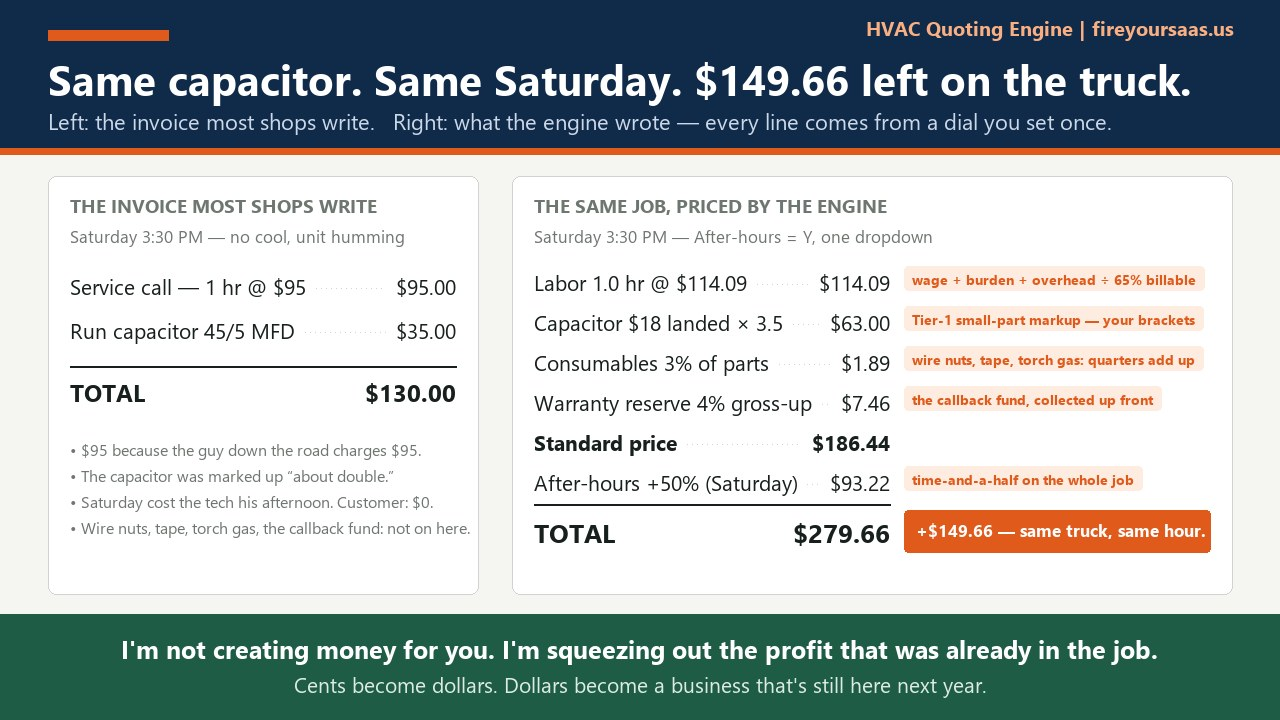
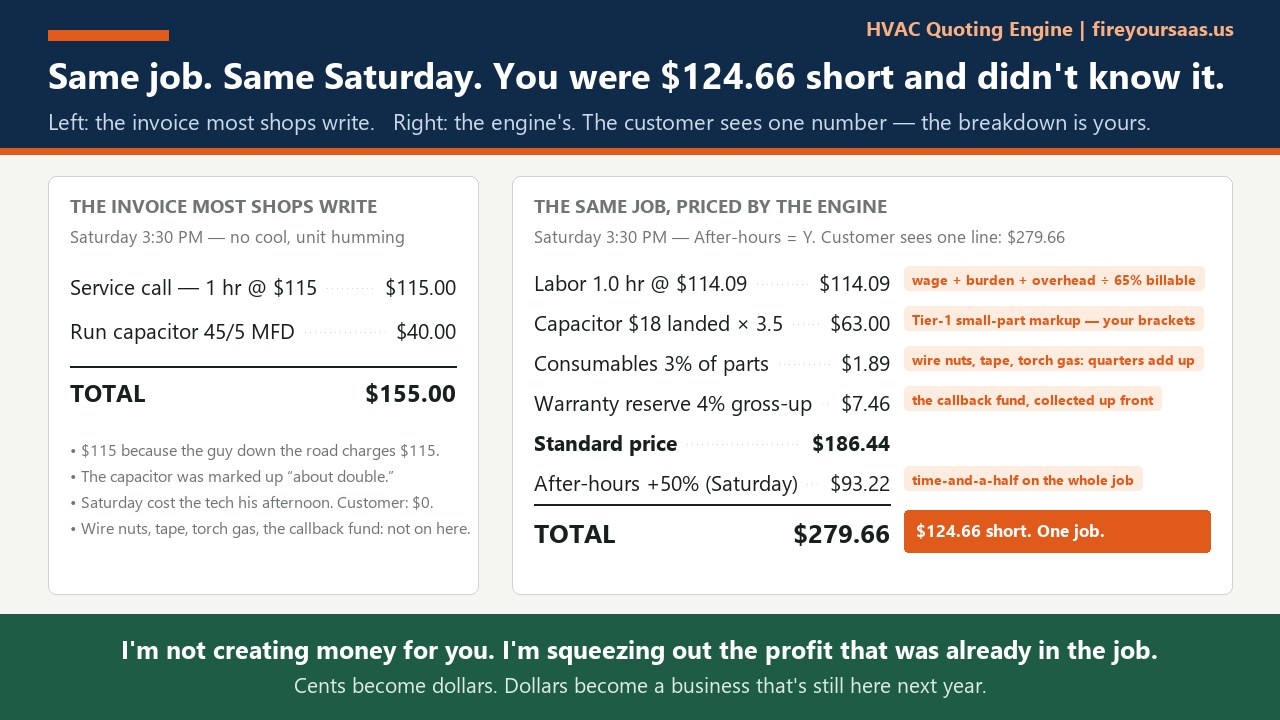
Invoice proof: realistic $155 baseline, 'short and didn't know it' framing, customer-sees-one-line note
Claude-Session: https://claude.ai/code/session_018kZ4hFBbJqkTf9M5ow4NNE

diff --git a/index.html b/index.html
@@ -305,17 +305,17 @@
         <div class="inv">
           <div class="proof-lbl">The invoice most shops write</div>
           <div class="inv-sub">Saturday 3:30 PM &middot; capacitor swap</div>
-          <div class="inv-row"><span>Service call &mdash; 1 hr @ $95</span><b>$95.00</b></div>
-          <div class="inv-row"><span>Run capacitor</span><b>$35.00</b></div>
+          <div class="inv-row"><span>Service call &mdash; 1 hr @ $115</span><b>$115.00</b></div>
+          <div class="inv-row"><span>Run capacitor</span><b>$40.00</b></div>
           <div class="inv-row gone"><span>Wire nuts, tape, torch gas</span><b>$0.00</b></div>
           <div class="inv-row gone"><span>Callback fund</span><b>$0.00</b></div>
           <div class="inv-row gone"><span>Saturday afternoon</span><b>$0.00</b></div>
-          <div class="inv-row tot"><span>Total</span><b>$130.00</b></div>
-          <div class="inv-foot">$95 because the guy down the road charges $95. Saturday cost the tech his afternoon; it cost the customer nothing.</div>
+          <div class="inv-row tot"><span>Total</span><b>$155.00</b></div>
+          <div class="inv-foot">$115 because the guy down the road charges $115. Saturday cost the tech his afternoon; it cost the customer nothing.</div>
         </div>
         <div class="inv eng">
           <div class="proof-lbl">The same job, priced by the engine</div>
-          <div class="inv-sub">After-hours = Y. One dropdown.</div>
+          <div class="inv-sub">After-hours = Y. The customer sees one line: $279.66. This breakdown is yours.</div>
           <div class="inv-row"><span>Labor 1.0 hr @ $114.09 loaded rate</span><b>$114.09</b></div>
           <div class="inv-row hi"><span>Capacitor $18 landed &times; 3.5 <em>your markup tier</em></span><b>$63.00</b></div>
           <div class="inv-row hi"><span>Consumables 3% <em>wire nuts, tape, torch gas</em></span><b>$1.89</b></div>
@@ -324,7 +324,7 @@
           <div class="inv-row tot"><span>Total</span><b>$279.66</b></div>
         </div>
       </div>
-      <div class="proof-note"><b class="callout">+$149.66. Same truck, same hour.</b> I'm not creating money for you. I'm squeezing out the profit that was already in the job. Cents become dollars. Dollars become a business that's still here next year. Every number above is a dial you set once, in a blue cell.</div>
+      <div class="proof-note"><b class="callout">$124.66 short. One job.</b> I'm not creating money for you. I'm squeezing out the profit that was already in the job. Cents become dollars. Dollars become a business that's still here next year. Every number above is a dial you set once, in a blue cell.</div>
     </div>
 
     
@@ -552,7 +552,7 @@
   <div class="lb-bar"><button onclick="lbNav(-1)">‹ Prev</button><button id="lbZoomB" onclick="lbZoom(0.5,0.6)">&#128269; Magnify</button><button onclick="lbNav(1)">Next ›</button></div>
 </div>
 <script>
-var GALS={crafters:[{f:"01.jpg",c:"5 steps, 30 minutes, then it prices everything"},{f:"02.jpg",c:"One screen tells you if you're getting paid"},{f:"03.jpg",c:"Your hour, costed honestly"},{f:"04.jpg",c:"Buy by the box, cost by the ounce"},{f:"05.jpg",c:"Build each product from dropdowns"},{f:"06.jpg",c:"Is that booth fee worth it? Know before you pay"},{f:"07.jpg",c:"What you really cleared, per sale, per hour"}],hvac:[{f:"01.jpg",c:"Run the day, or open the engine room"},{f:"02.jpg",c:"Same capacitor. Same Saturday. $149.66 left on the truck."},{f:"03.jpg",c:"Prime it once. 20 minutes."},{f:"04.jpg",c:"A driveway quote in under a minute"},{f:"05.jpg",c:"One screen tells you if you're making money"},{f:"06.jpg",c:"A customer-ready quote — Good / Better / Best"},{f:"07.jpg",c:"Quoted vs actual, job by job"},{f:"08.jpg",c:"Every dial in one place"},{f:"09.jpg",c:"Buy it once, mark it up right forever"},{f:"10.jpg",c:"Your whole price book — standard, 9pm Sunday, rooftop"}]};
+var GALS={crafters:[{f:"01.jpg",c:"5 steps, 30 minutes, then it prices everything"},{f:"02.jpg",c:"One screen tells you if you're getting paid"},{f:"03.jpg",c:"Your hour, costed honestly"},{f:"04.jpg",c:"Buy by the box, cost by the ounce"},{f:"05.jpg",c:"Build each product from dropdowns"},{f:"06.jpg",c:"Is that booth fee worth it? Know before you pay"},{f:"07.jpg",c:"What you really cleared, per sale, per hour"}],hvac:[{f:"01.jpg",c:"Run the day, or open the engine room"},{f:"02.jpg",c:"Same job. Same Saturday. You were $124.66 short and didn't know it."},{f:"03.jpg",c:"Prime it once. 20 minutes."},{f:"04.jpg",c:"A driveway quote in under a minute"},{f:"05.jpg",c:"One screen tells you if you're making money"},{f:"06.jpg",c:"A customer-ready quote — Good / Better / Best"},{f:"07.jpg",c:"Quoted vs actual, job by job"},{f:"08.jpg",c:"Every dial in one place"},{f:"09.jpg",c:"Buy it once, mark it up right forever"},{f:"10.jpg",c:"Your whole price book — standard, 9pm Sunday, rooftop"}]};
 var lbG=null,lbI=0;
 function lbShow(){lbZoomOff();var f=GALS[lbG];document.getElementById("lbImg").src="covers/"+lbG+"/full/"+f[lbI].f.replace(".jpg",".png")+"?v=7";document.getElementById("lbCap").textContent=f[lbI].c;document.getElementById("lbN").textContent=(lbI+1)+" / "+f.length;}
 function lbOpen(g,i){lbG=g;lbI=i;lbShow();document.getElementById("lb").classList.add("open");document.body.style.overflow="hidden";history.pushState({l:1},"");}
